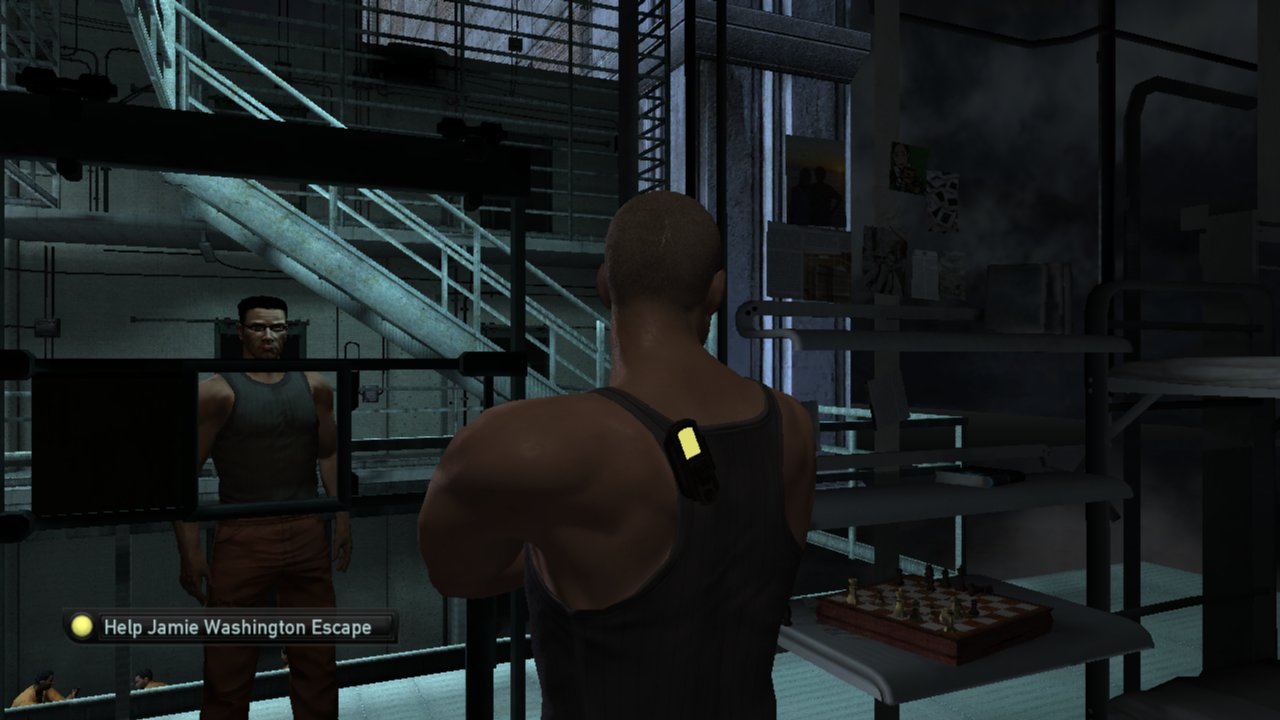
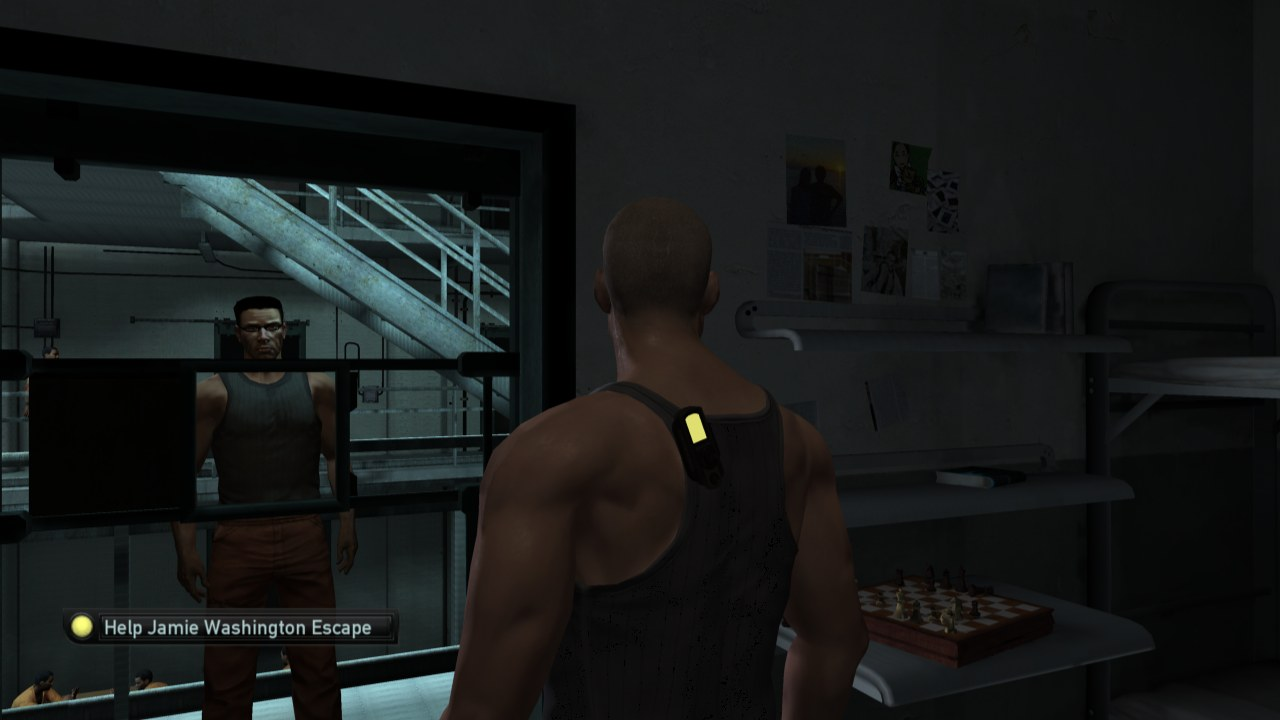
docs: README progress section and Scale 2/3 screenshots
Claude-Session: https://claude.ai/code/session_01JYzPsfcJjY2PvJWooS3Chf

diff --git a/README.md b/README.md
@@ -29,14 +29,33 @@ stands in for the console:
 - **Xenos GPU:** the PM4 command processor feeds a Direct3D 11 renderer. Shader microcode is translated to HLSL at run time.
 - **Audio:** XMA is decoded through FFmpeg's WMA Pro decoder and output through XAudio2.
 
+## Recent progress
+
+- **Higher internal resolution.** `Scale=2..4` in `settings.ini` renders at 2560x1440 to 5120x2880 and box-filters
+  down to the window, which acts as supersampling anti-aliasing. Kinshasa, the heaviest map, holds the game's 30 fps
+  cap at `Scale=2`.
+- **Texture mipmaps and anisotropic filtering.** Textures the game gives a mip chain now have one, so distant surfaces
+  no longer shimmer. `Anisotropy=16` sharpens floors and walls seen at an angle.
+- **Auto-exposure fixed at higher scales.** Scenes no longer turn twice as bright above `Scale=1`.
+- **In-mission flow verified.** Load last checkpoint after ASSIGNMENT FAILED, Restart Mission, Quit to the main menu
+  and loading a save from the pause menu all work, repeatedly, in one session.
+
+![Scale 1 vs Scale 3](docs/images/scale_compare.jpg)
+
+*Kinshasa at the console's 1280x720 (left) and at `Scale=3` (right), zoomed in. The two shots come from separate
+runs, so the camera position differs slightly.*
+
 ## Screenshots
 
-All shots come from the current build at 1280x720, running natively on Windows.
+Shots come from the current build, running natively on Windows. Shots marked *Scale 2* or *Scale 3* use the internal
+resolution setting; the rest are at the console's 1280x720.
 
 | | |
 |:-:|:-:|
+| ![Kinshasa at Scale 3](docs/images/kinshasa_scale3.jpg) | ![Kinshasa gate at Scale 2](docs/images/kinshasa_gate.jpg) |
+| **Kinshasa**: retrieving the plans (*Scale 3*) | **Kinshasa**: through the gate (*Scale 2, 16x anisotropic*) |
 | ![Iceland: Osprey bay](docs/images/iceland_osprey.jpg) | ![Ellsworth Penitentiary](docs/images/jail_cell.jpg) |
-| **Iceland**: Osprey bay before the drop | **Ellsworth Penitentiary**: helping Jamie escape |
+| **Iceland**: Osprey bay before the drop | **Ellsworth Penitentiary**: helping Jamie escape (*Scale 3*) |
 | ![Sea of Okhotsk: skydive](docs/images/okhotsk_skydive.jpg) | ![Sea of Okhotsk: under the ice](docs/images/okhotsk_ice_dive.jpg) |
 | **Sea of Okhotsk**: HALO jump toward the supertanker | **Sea of Okhotsk**: diving under the ice |
 | ![Cozumel](docs/images/cozumel_cruise_ship.jpg) | ![Kinshasa](docs/images/kinshasa_city.jpg) |
@@ -52,16 +71,19 @@ All shots come from the current build at 1280x720, running natively on Windows.
 |-|-|
 | Boot, menus, profile | ✅ Main menu and profile sign-in |
 | Missions | ✅ All 18 single-player maps load and play, at the game's 30 fps cap |
+| In-mission flow | ✅ Checkpoint reload after failure, restart mission, quit to menu, load from pause |
 | Menu to mission transitions | ✅ In-process title relaunch with launch data (no restart) |
 | Save / load | ✅ Saves to `%LOCALAPPDATA%\SCDARecomp`; position and difficulty restore |
-| Graphics | 🟡 Most scenes match the console. Some glitches remain (see below) |
+| Graphics | 🟡 Most scenes match the console. Some glitches remain (see below). Internal resolution up to 4x, mipmaps, anisotropic filtering |
 | Audio | ✅ Music, 3D sound effects, dialogue (XMA) and Bink video audio |
 | Input | ✅ Xbox controller. 🟡 Mouse look and keyboard are new and barely tested |
 | Multiplayer / Xbox Live | ❌ Not planned for now (network calls are stubbed) |
 
 **Known issues**
 - Small differences from the console in fog, light shafts and some edges of the under-ice sky.
-- The renderer is a straightforward D3D11 path. Internal resolution scaling exists (`Scale`); no widescreen extras yet.
+- The renderer is a straightforward D3D11 path. No ultrawide support yet.
+- Mipmaps are generated from the full-size texture rather than taken from the game's own smaller versions.
+- Above `Scale=1`, some post-processing passes can miss one pixel row/column at the screen edge.
 
 ## Getting started
 
